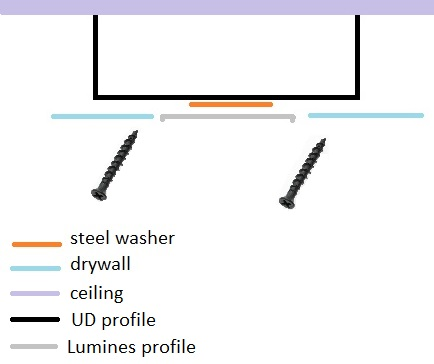
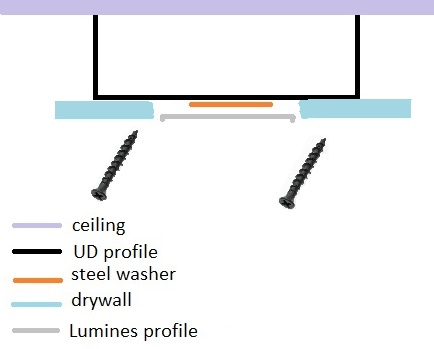
Add many pfotos, add more description and correct

Changed region(s): [[0.0, 0.6017, 0.4493, 0.9742], [0.1198, 0.2579, 0.9885, 0.5731], [0.629, 0.3725, 0.7488, 0.6017]]

diff --git a/README.md b/README.md
@@ -1,44 +1,70 @@
-# ceiling-light
+# ceiling-light - Smart PWM LED Strip Ceiling
 
-# Smart PWM LED Strip Controller
-This is short project description of my personal struggle with build dreamed smart ceiling in my leaving room
+This is short project description of my personal struggle with build dreamed smart ceiling in my leaving room.
 
 ## Dreams and plans
 
-![sample1](https://i.pinimg.com/originals/80/f0/95/80f095b024aeab3a5b452b1bcffd75e6.jpg)
-*??*
+Idea was, to build cool and effective smart ceiling.
 
-Found solutions:
+Requirements:
 
-1. CartoonLight L-16
-https://www.youtube.com/watch?v=iwvV4xV2fUY
-1. Lumines - na sprężyny
-http://lumines.pl/produkty/profil-montazowy-lumines-talia-m3,2339,.html
-1. Zwykły szeroki profil LUMINES
-http://lumines.pl/produkty/profil-lumines-modi,184,.html
+1. Many independent lighting points
+1. PWM brightness control
+1. Ability to controls over phone/PC
+1. Use actual electricity network
+1. Use regular power switch to turn on and off
+1. Have crossed many led strip
+1. Warm and Cold white light
+1. Contain RGB lighting
 
+![Inspiration1](https://i.pinimg.com/originals/80/f0/95/80f095b024aeab3a5b452b1bcffd75e6.jpg)
+*Inspiration ceiling 1*
 
-## Building construction
-First of all my "smart" ceiling was dreamed to be done in living room. As you can see on *img1* image there is also kitchen over there. This is just a project from my developer with my first idea of where to put led lines and how to cross it to spend less money and get the best visual effect and usability.
+# Building ceiling
+
+First of all my "smart" ceiling was dreamed to be done in living room. As you can see on *img1* image there is also kitchen over there - this part require a lot of light. This is just a project from developer with my first idea of where to put led lines and how to cross it to spend less money and get the best visual effect and usability.
 
 ![img1](img/img1.jpg)
 *img1: First idea scratched to paper project*
 
-As you can see, first attempt was not so well done. There is not so many cros of lighting strip to have expected efect.
+As you can see, first attempt was not so well done. There is not so many crosses of lighting strip to have expected effect.
 
 ![img2](img/img2.jpg)
 *img2: Final idea painted in simple 'design' software*
 
-In this image i realize how big this room really is and also i decided place of dining table and couch.
+In this image i realize how big this room really is and i also decided where to put dining table and couch.
 
-Finally i decide to have 1 parallel line across whole room and 4 strip with some cross point somewhere outside room. This create problem - how to mount led profiles.
+Finally i decide to have 1 parallel line across whole room (where i planned to place warm, cold and rgb strip) and 4 profiles with some cross point somewhere outside room. This create problem - how to mount led profiles.
 
-In sumarry i have to order:
+During quite long research and struggling with very hight costs of build i have found few solutions:
+
+## CartoonLight L-16
+
+https://www.youtube.com/watch?v=iwvV4xV2fUY
+
+Unfortunately i cannot find distributor for Poland
+
+## Lumines recessed architectural profile
+
+http://lumines.uk/produkty/profil-lumines-typ-intalia-wpuszczany,2383,.html
+
+This profile are quite good, but they require many space under my ceiling, so i lost 60cm of storey height.
+
+## Lumines wide profile
+
+http://lumines.uk/produkty/lumines-modi,198,.html
+
+This is the simplest wide profile i have found. It is also the cheapest solution! So this is my choice.
+
+In summary i have to order:
+
 7 x 3m profile
+
 5 x 1m profile
+
 SUM 26m profile
 
-Over there i planned to place warm, cold and rgb strip.
+I started with mark all profiles with chalk line.
 
 ![img3](img/img3.jpg)
 *img3: All lines are painted on ceiling with chalk line*
@@ -49,42 +75,132 @@ Over there i planned to place warm, cold and rgb strip.
 ![img4](img/img4.jpg)
 *img4: All lines are painted on ceiling with chalk line*
 
+Because chosen Lumines profile have about 10 cm height i need to put in somehow drywall on the sime level.
+
+I decided to use UD profile as base. Whole 'construction' is presented on drawing1.
+
 ![drawing1](img/drawing1.jpg)
 *drawing1: How to handle led profile?*
 
 ![img5](img/img5.jpg)
 *img5: Metal frame*
 
-![img5a](img/img12.jpg)
+![img5a](img/img12a.jpg)
 *img5a: Steel washer*
 
-Tu generalna idea co i jak 
+![img5b](img/img12b.jpg)
+*img5b: Mounting steel washer on double sided tape*
 
-![img1](img/img6.jpg)
-![img1](img/img7.jpg)
-![img1](img/img8.jpg)
-![img1](img/img9.jpg)
-![img1](img/img10.jpg)
-![img1](img/img11.jpg)
+![img6](img/img6.jpg)
+*img6*
 
-## Prototypowanie
+![img7](img/img7.jpg)
+*img7*
 
-ESP8266 ma 6? wyjść PWM
+![img8](img/img8.jpg)
+*img8*
 
-Jak to powiększyć?
--Przerzutnik 
--https://tech.scargill.net/16-channels-of-pwm-for-esp8266/
+![img9](img/img9.jpg)
+*img9*
 
-## Budowa płytki
+![img10](img/img10.jpg)
+*img10*
 
-## Oprogramowanie
+![img11](img/img11.jpg)
+*img11*
 
-Dlaczego custom soft?
-1. Dla ćwiczenia, odkrywania czegoś nowego w świecie IoT
-1. Chęć dużej customizacji zachowania poszczególnych punktów świetlnych 
-    1. PWM dimming z regulacją czasu osiągnięcia zadanej wartości wyjścia
-    1. Strona serwerowa również pisana przezemnie w najnowszych technologiach firmy Microsoft 
-1. Rozwiązanie całkowicie offline
-1. Nie znalazłem podobnego projektu 
+![img13](img/img13.jpg)
+*img13*
 
+![img14](img/img14.jpg)
+*img14: Total ceiling height*
 
+![img15](img/img15.jpg)
+*img15*
+
+![img16](img/img16.jpg)
+*img16*
+
+![img17](img/img17.jpg)
+*img17*
+
+![img18](img/img18.jpg)
+*img18*
+
+![img19](img/img19.jpg)
+*img19*
+
+![img21](img/img21.jpg)
+*img21*
+
+![img22](img/img22.jpg)
+*img22*
+
+![img23](img/img23.jpg)
+*img23*
+
+![img24](img/img24.jpg)
+*img24: First white LED strip mounted*
+
+## Hardware
+
+First of all i had to choose which controller to choose to write program for.
+
+Requirements:
+
+1. Arduino compatible
+1. With wifi
+1. Cheap
+
+My choose is **ESP8266**. It is very cheap (2$), fast (80MHz)and available in many stores.
+
+I used D1 Mini NodeMcu for easier soldering and it contain usb port with programmer.
+
+![img25](https://cdn-reichelt.de/bilder/web/xxl_ws/A300/DEBO_D1MINI_8266_01.png)
+*img25: WEMOS D1 Mini*
+
+ESP8266 contains 8 output pins with PWM modulation. For such controller it is a lot, but for my project this is not much.
+
+I choose Adafruit 16-channel 12-bit PWM board (PCA8685). It is very cheap and it can be connected to another module (up to 6!). This give us 16 channels to manage! :)
+
+![img26](https://camo.githubusercontent.com/7e58f28899e4031815228ee14c03a6c733154cef/68747470733a2f2f63646e2d73686f702e61646166727569742e636f6d2f393730783732382f3831352d30362e6a7067)
+*img26: 16-channel 12-bit PWM board*
+
+Unfortunately output power is not enough to power so long led strips. I have to use transistors.
+For such project i can project custom PCB and solder everything to it, but i wanted this project to be as modular as possible. This is my only lighting in room, so in case of failure some of module i can very fast replace it and fix problem.
+
+![img27](img/img27.jpg)
+*img27: N-mosfet transistors board with PCA8685*
+
+![img28](img/img28.jpg)
+*img28: N-mosfet transistors board with PCA8685*
+
+![img29](img/img29.jpg)
+*img29: First attempt to connect everything up to test software*
+
+![img30](img/img30.jpg)
+*img30: First connect to strips*
+
+What a cable mess you could ask. And i will agree with you! That's why i think - if in software we are scared of big monolith infrastructure and we are trying to divide big system to small parts and call it services/microservices, why cannot i do the same with my project?
+
+The first thing to divide is handling regular power switch to turn on and off light.
+
+![img31](img/img31.jpg)
+*img31: Separate module for handling power switch state*
+
+## Software
+
+I decided to write code by my own because:
+
+1. I want to practice programming
+1. I want to have pet project where i can test cutting edge technologies
+1. Not standard requirements will be very hard to configure in universal solutions like supla
+1. I wanted 100% offline solution
+
+For now my central website is hosted on my local small server under docker container with my custom MVC website and API.
+
+In case of power switch change state, microcontroller from img31 send request to server to handle it.
+
+In SQL database i have defined events and assigned reaction to it.
+
+If i turn on switch nr1, then led strips from 0 to 6 all goes to 60% of brightness.
